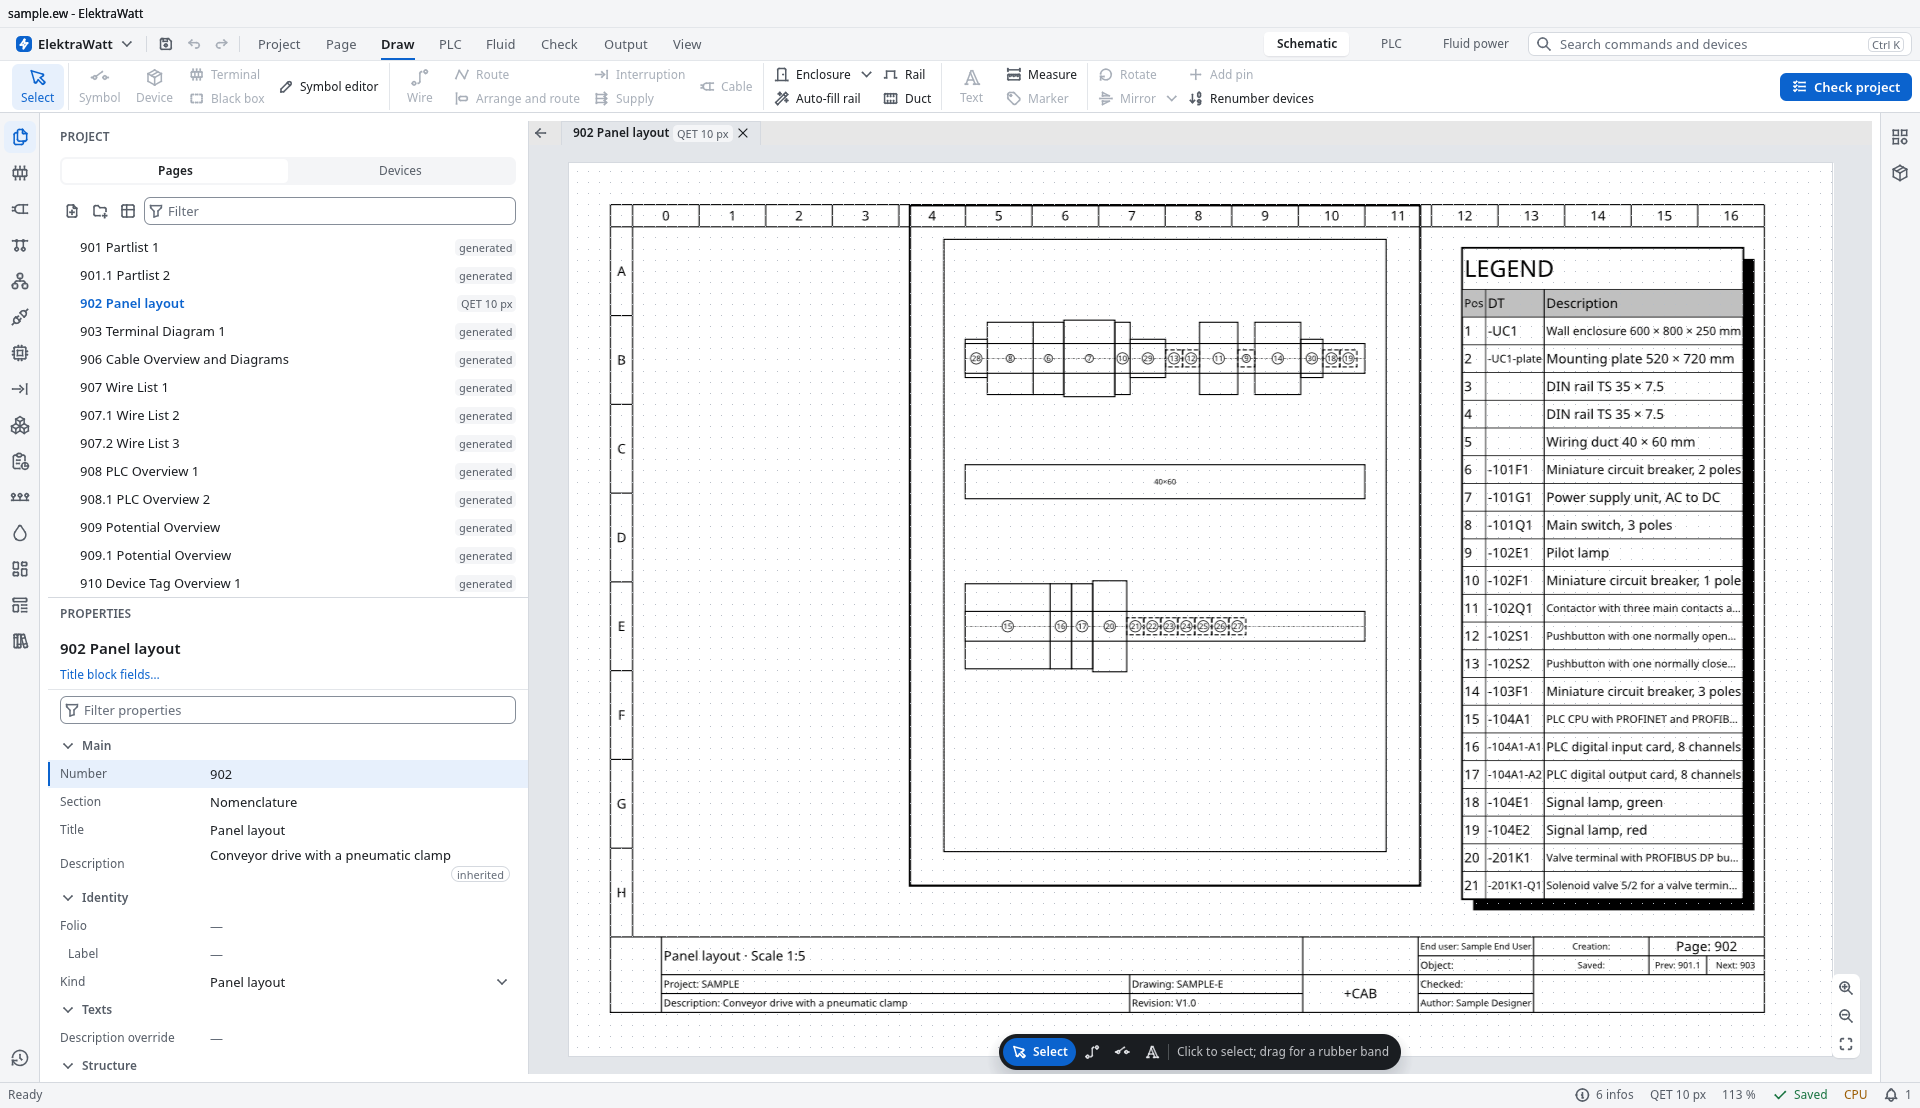
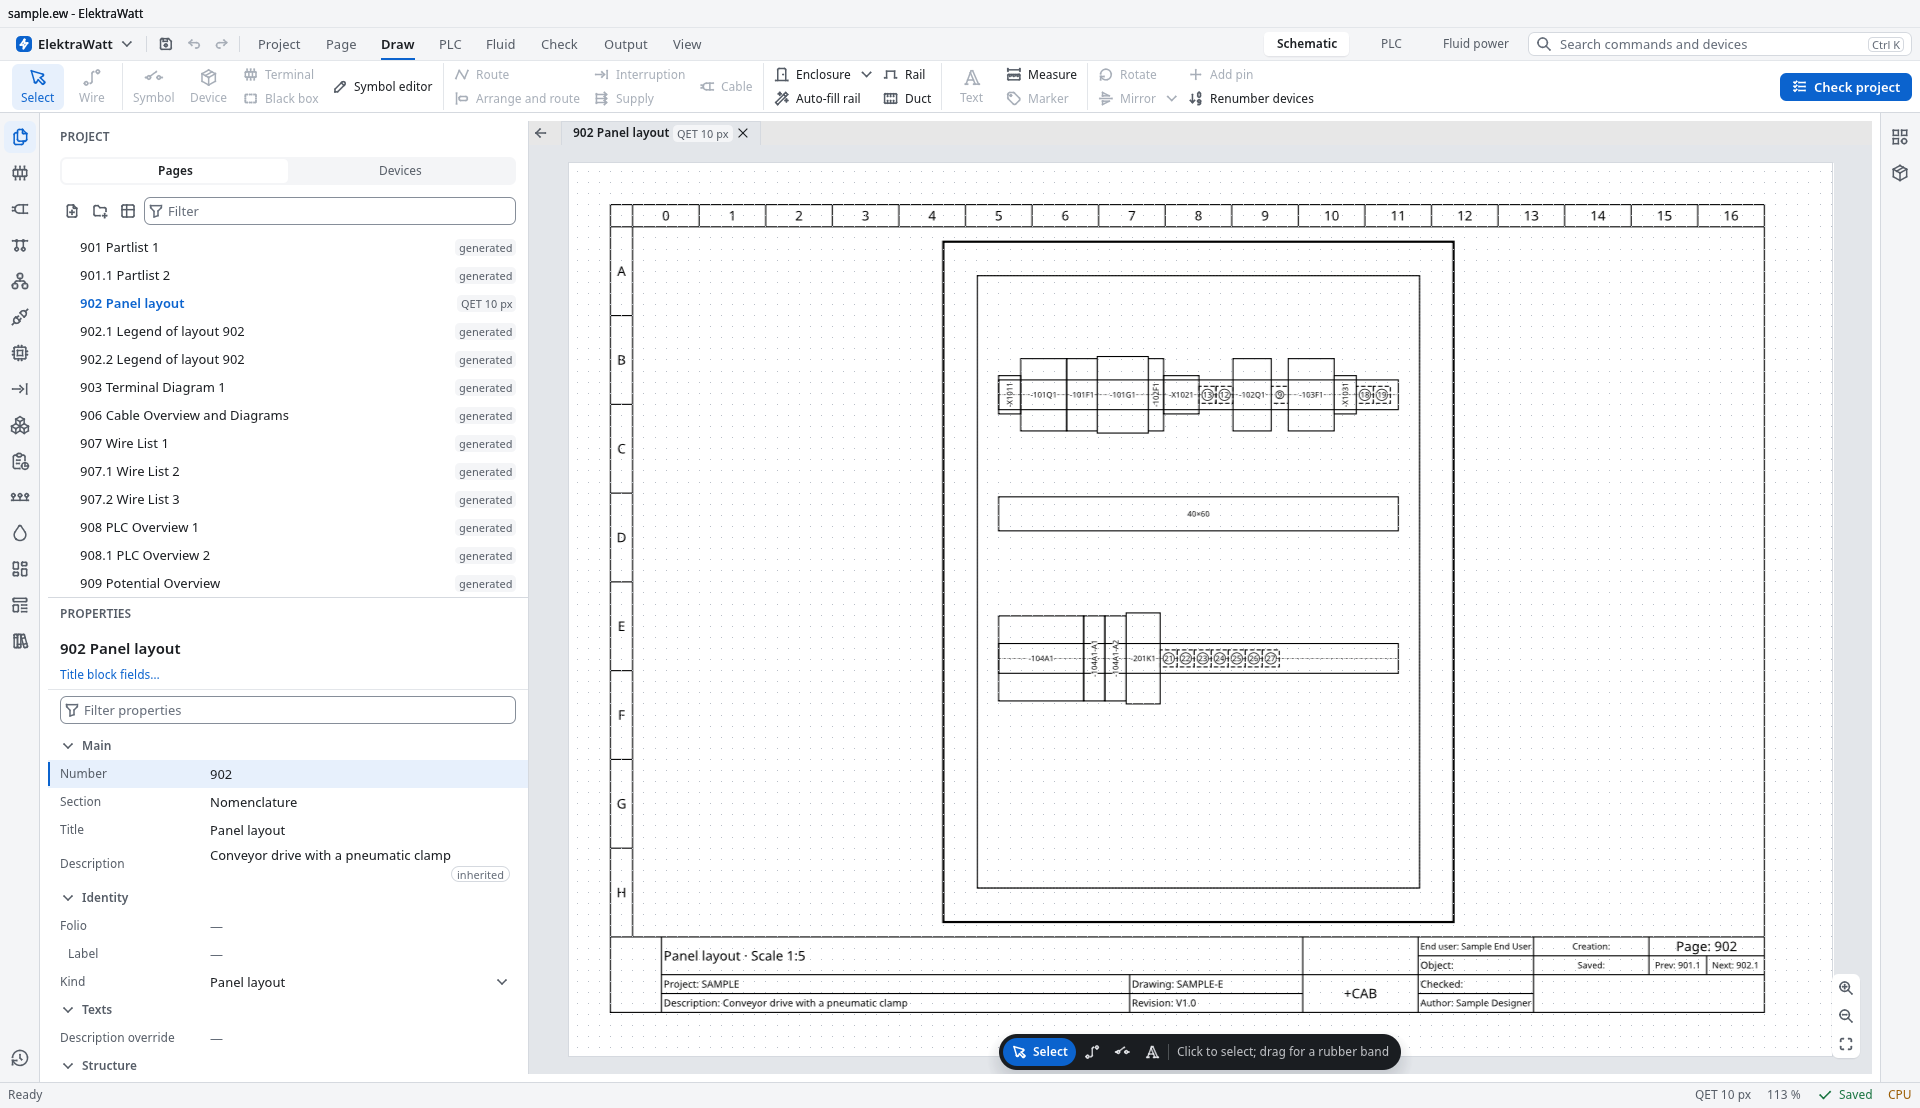
docs: the README's panel layout picture shot again, the guide's templates and three rows left
The README's panel layout picture is shot again from the headless window at
1920 x 1080 on a copy of the sample: the plate centred on the whole sheet,
the tags where they fit and balloons on the terminals, the legend pages
902.1 and 902.2 in the pages list. The guide's translation templates follow
its panel layout page. Doc 12 §5.4 says how a person gives an older layout
the whole sheet and how the legend list is exported; what is left is rows
FT-2030 to FT-2032.

diff --git a/docs/design/12-panel-layout.md b/docs/design/12-panel-layout.md
@@ -673,8 +673,8 @@ page block of kind `enclosure_legend` that names its layout page (`ReportBlock.l
 §2.2) lists the surface that page's view shows, and is a list like any other: it runs on over as many pages as its rows
 need, on the set's own frame (09 §3.8), with its own printed columns and caption (made with position, tag, quantity,
 part number and description; the manufacturer and the unit are among the others List columns… offers), in the
-project's language, in the contents and the PDF outline, and `ew export report --block <its ID>` (or `--kind
-enclosure_legend`) writes it as CSV or XLSX. Its pages follow the layout page, 902.1, 902.2 … after 902 (09 §3.2 says
+project's language, in the contents and the PDF outline, and `ew export report --block <its ID>` (or the layout page's
+number, 902, its `first_folio`) writes it as CSV or XLSX. Its pages follow the layout page, 902.1, 902.2 … after 902 (09 §3.2 says
 where those are taken). Its title names its layout: "Legend of layout 902", "Legenda bij layout 902" (the title
 `Legend of layout {layout}`, `{layout}` the layout page's folio, so a renumbered layout renames it). Deleting the layout
 page deletes its legend list.
@@ -690,9 +690,8 @@ page deletes its legend list.
   step: the rows are the same surface's, and the printed columns are the box's own, or the five above for a box
   without its own.
 - **A layout made before keeps its datum and its scale as stored** (§5.1). To give such a page the whole sheet once
-  its legend has gone, a person sets its Scale row (Page properties) to the next larger ratio and its Surface view's
-  Datum row to where the plate stands in the middle; a page set back to Not to scale takes the fitting scale and the
-  centred datum when its Surface row chooses the plate again.
+  its legend has gone, a person sets its Scale row (Page properties) to the ratio the plate fits the sheet at and its
+  Surface view's Datum row to where the plate stands in the middle (a re-fit of an existing view is not built).
 - **From the drawing to the row and back** (the cross-references' links, 09 §4.2). On a layout whose surface has a
   legend page, a device's label (its tag, its balloon, its leader) links to the device's row on the legend page, and
   the row's tag links to the device's footprint on the layout: Follow reference (F) goes either way, as a click in the

diff --git a/README.md b/README.md
@@ -35,7 +35,7 @@ and what is known not to work yet.
 |---|---|
 | ![A wire of the sample's 24 V control page right-clicked: its menu offers Route, Wire marker, Define potential, Cable and Print wire numbers first, then the general entries](docs/images/screenshot-right-click.png) | ![The Cable form over the two selected wires of a position switch in the field: the proposed tag -104W1, the two-core cable type and each wire's core, brown and blue](docs/images/screenshot-cable-form.png) |
 | **The symbol editor** | **The panel layout** |
-| ![The symbol editor with a copy of the starter coil: its drawing with the connection points A1 and A2, the category Relays, the snap grid, the eight variants and a tool's tooltip](docs/images/screenshot-symbol-editor.png) | ![The panel layout page of the sample project: the enclosure and its mounting plate with two rails, a duct and the devices, and the legend beside it](docs/images/screenshot-panel-layout.png) |
+| ![The symbol editor with a copy of the starter coil: its drawing with the connection points A1 and A2, the category Relays, the snap grid, the eight variants and a tool's tooltip](docs/images/screenshot-symbol-editor.png) | ![The panel layout page of the sample project: the enclosure and its mounting plate centred on the sheet with two rails, a duct and the devices, each with its tag or, where the tag does not fit, a numbered balloon; its legend follows on pages 902.1 and 902.2](docs/images/screenshot-panel-layout.png) |
 | **The dark theme** | |
 | ![The pneumatics page of the sample project in the dark theme: a valve terminal with four solenoid valves, two of them spare, driving two cylinders](docs/images/screenshot-dark-theme.png) | |
 

diff --git a/docs/plan/backlog.md b/docs/plan/backlog.md
@@ -73,6 +73,9 @@ From the owner's tests of 0.3.0's candidates and the persona runs.
 
 #### The layout page
 
+- FT-2030 `ew-viewmodel, ew-api`: A layout page made before 0.3.5 keeps its scale and datum when its legend box moves to its own page; giving it the whole sheet takes its Scale row and its Datum row by hand (doc 12 §5.4). One step that fits an existing view to the sheet and centres it.
+- FT-2031 `ew-reports, ew-api`: Two layout pages that show one plate share one legend list (the first in page order gets the links), and the second is offered no legend of its own; doc 12 §5.4 leaves a legend page per layout page open.
+- FT-2032 `ew-api, ew`: A legend list's Properties show its First folio and Section, which the block keeps for older builds and this build does not read (its pages follow the layout page), and `ew export report --block` finds it by that number (902), not by its printed folio 902.1. Show the layout page instead, and let `--block` take a printed folio.
 
 #### What a new item takes
 
